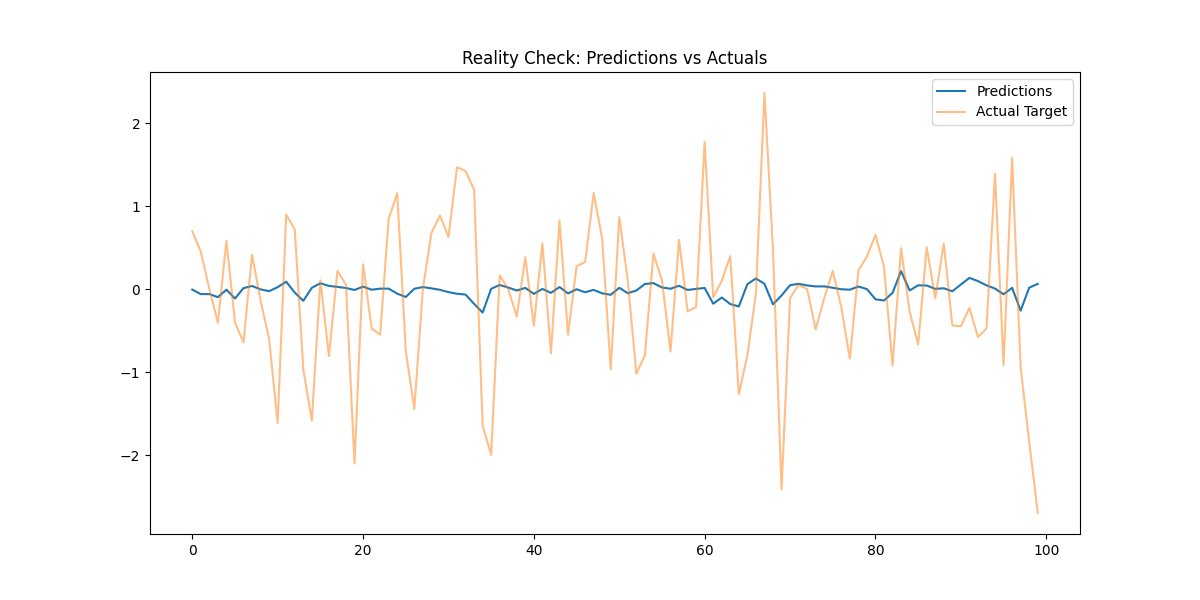
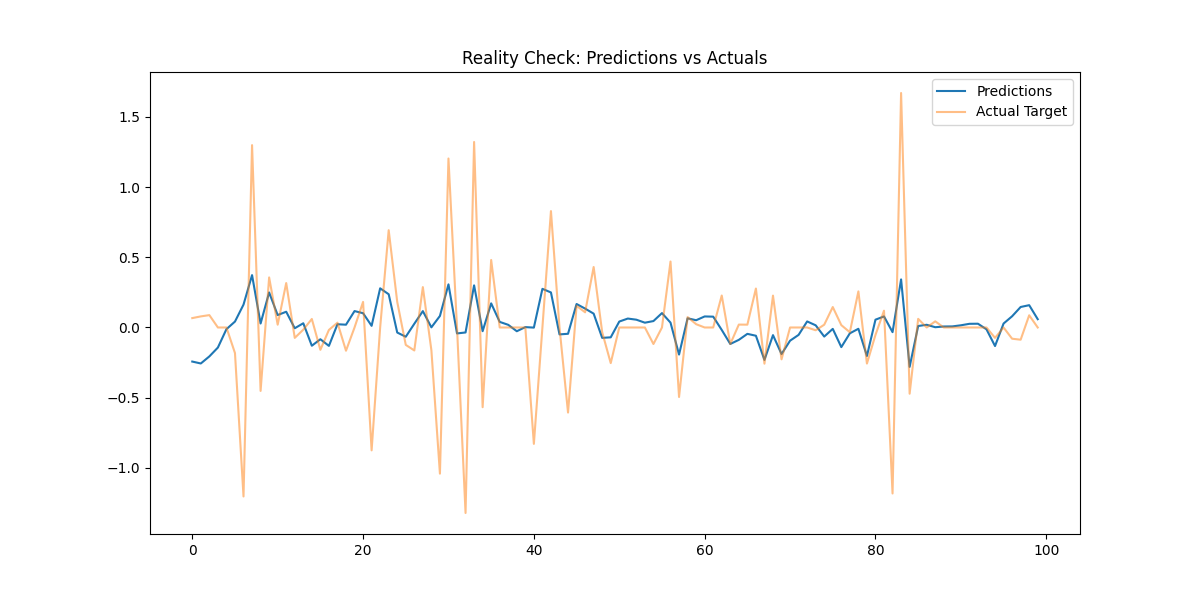
fixed RevIN

diff --git a/main.py b/main.py
@@ -5,10 +5,8 @@ from typing import Callable, List, Tuple
 
 import matplotlib
 import matplotlib.pyplot as plt
-import numpy as np
 import torch
 import torch.optim as optim
-from sklearn.metrics import root_mean_squared_error
 from torch.nn import HuberLoss
 from torch.optim.lr_scheduler import ReduceLROnPlateau
 from torch.utils.data.dataloader import DataLoader
@@ -62,8 +60,10 @@ def train_step(
 
         # This adds mixed amp precision for faster training
         with torch.autocast(device_type=device.type, dtype=torch.float16):
-            y_train_pred = model(X_train)
-            loss = criterion(y_train_pred, y_train)
+            # Gemini suggested outputs for stable Z-score
+            pred_norm, mean, std = model(X_train)
+            y_train_norm: torch.Tensor = (y_train - mean) / std
+            loss: torch.Tensor = criterion(pred_norm, y_train_norm)
 
         train_loss += loss.item()
 
@@ -95,17 +95,23 @@ def evaluate(
             X = X.to(device)
             y = y.to(device)
 
-            output: torch.Tensor = model(X)
+            # Gemini suggested z-score stuff
+            pred_norm, mean, std = model(X)
+            pred_real: torch.Tensor = (pred_norm * std) + mean
 
-            all_predictions.append(output.cpu())
+            all_predictions.append(pred_real.cpu())
             all_targets.append(y.cpu())
 
     final_predictions: torch.Tensor = torch.vstack(all_predictions)
     final_targets: torch.Tensor = torch.vstack(all_targets)
 
-    dim_correct: np.ndarray = np.sign(final_predictions) == np.sign(final_targets)
-    dim_accuracy: float = np.mean(dim_correct).item()
-    rmse: float = root_mean_squared_error(final_targets, final_predictions)
+    dim_correct: torch.Tensor = torch.sign(final_predictions) == torch.sign(
+        final_targets
+    )
+    dim_accuracy: float = torch.mean(dim_correct.float()).item()
+    rmse: float = torch.sqrt(
+        torch.nn.functional.mse_loss(final_targets, final_predictions)
+    ).item()
 
     return rmse, dim_accuracy
 
@@ -173,12 +179,13 @@ def plot_model_predictions(
     model.eval()
     X_sample, y_sample = next(iter(test_dataloader))
     with torch.no_grad():
-        preds = model(X_sample.to(device)).cpu()
+        predictions, _, _ = model(X_sample.to(device))
+        predictions = predictions.cpu()
 
     plt.figure(figsize=(12, 6))
-    plt.plot(preds[:100], label="Predictions")
+    plt.plot(predictions[:100], label="Predictions")
     plt.plot(y_sample[:100], label="Actual Target", alpha=0.5)
-    plt.title("Reality Check: Predictions vs Actuals")
+    plt.title("Predictions vs Actuals")
     plt.legend()
     plt.savefig(MODEL_INFO_DIR / "debug_predictions.png")
     plt.close()
@@ -205,6 +212,7 @@ def main() -> None:
         num_layers=2,
         output_dim=1,
         dropout=0.2,
+        target_feature_idx=5,
         device=device,
     ).to(device)
     criterion: HuberLoss = HuberLoss().to(device)

diff --git a/model.py b/model.py
@@ -1,4 +1,4 @@
-from typing import Self
+from typing import Self, Tuple
 
 import torch
 import torch.nn as nn
@@ -12,12 +12,14 @@ class StockPredictionModel(nn.Module):
         num_layers: int,
         output_dim: int,
         dropout: float,
+        target_feature_idx: int,
         device: torch.device,
     ) -> None:
         super().__init__()
 
         self.num_layers: int = num_layers
         self.hidden_dim: int = hidden_dim
+        self.target_feature_idx: int = target_feature_idx
         self.device: torch.device = device
 
         self.lstm: nn.LSTM = nn.LSTM(
@@ -36,10 +38,13 @@ class StockPredictionModel(nn.Module):
         self.relu: nn.ReLU = nn.ReLU()
         self.fc_2: nn.Linear = nn.Linear(hidden_dim // 2, output_dim, device=device)
 
-    def forward(self: Self, x: torch.Tensor) -> torch.Tensor:
+    def forward(
+        self: Self, x: torch.Tensor
+    ) -> Tuple[torch.Tensor, torch.Tensor, torch.Tensor]:
         batch_size, seq_len = x.shape[0], x.shape[1]
 
         # Doing instance normalization for each input tensor to force the model to generalize
+        # This technique is called RevIN
         x_mean: torch.Tensor = x.mean(dim=1, keepdim=True)
         x_std: torch.Tensor = (
             x.std(dim=1, keepdim=True) + 1e-5
@@ -55,14 +60,13 @@ class StockPredictionModel(nn.Module):
 
         out = self.fc_1(out)
         out = self.relu(out)
-        out = self.fc_2(out)
+        out = self.fc_2(out)  # out = Z-Score here
 
         # Denormalize out and rescale to match the original magnitude
-        target_std: torch.Tensor = x_std[:, :, 0]
-        target_mean: torch.Tensor = x_mean[:, :, 0]
-        out_rescaled: torch.Tensor = (out * target_std) + target_mean
+        target_mean: torch.Tensor = x_mean[:, :, self.target_feature_idx]
+        target_std: torch.Tensor = x_std[:, :, self.target_feature_idx]
 
-        return out_rescaled
+        return out, target_mean, target_std
 
 
 class DirectionalMSELoss(nn.Module):

diff --git a/create_training_data.py b/create_training_data.py
@@ -222,11 +222,11 @@ def _create_datasets_from(directory: Path) -> SplitDFDatasets:
     return SplitDFDatasets(train_df, val_df, test_df)
 
 
-def _create_dataloader(df: pl.DataFrame) -> DataLoader:
+def _create_data_loader(df: pl.DataFrame) -> DataLoader:
     return DataLoader(
         NASDAQDataset(df),
         batch_size=BATCH_SIZE,
-        num_workers=4,
+        num_workers=1,
         persistent_workers=True,
     )
 
@@ -235,13 +235,13 @@ def _create_data_loaders(
     train_df: pl.DataFrame, val_df: pl.DataFrame, test_df: pl.DataFrame
 ) -> NASDAQDataLoaders:
     print("Creating training data loader...")
-    train_loader = _create_dataloader(train_df)
+    train_loader = _create_data_loader(train_df)
 
     print("Creating validation data loader...")
-    val_loader = _create_dataloader(val_df)
+    val_loader = _create_data_loader(val_df)
 
     print("Creating test data loader...")
-    test_loader = _create_dataloader(test_df)
+    test_loader = _create_data_loader(test_df)
 
     print("Finished creating PyTorch DataLoaders!")
 
@@ -277,7 +277,7 @@ def create_data_loaders_from(
     test_df = datasets.test
 
     dataset_directory.mkdir(parents=True, exist_ok=True)
-    print("Saving datasets (Unscaled for Instance Norm)...")
+    print("Saving datasets...")
     train_df.write_parquet(dataset_directory / "train.parquet")
     val_df.write_parquet(dataset_directory / "val.parquet")
     test_df.write_parquet(dataset_directory / "test.parquet")
